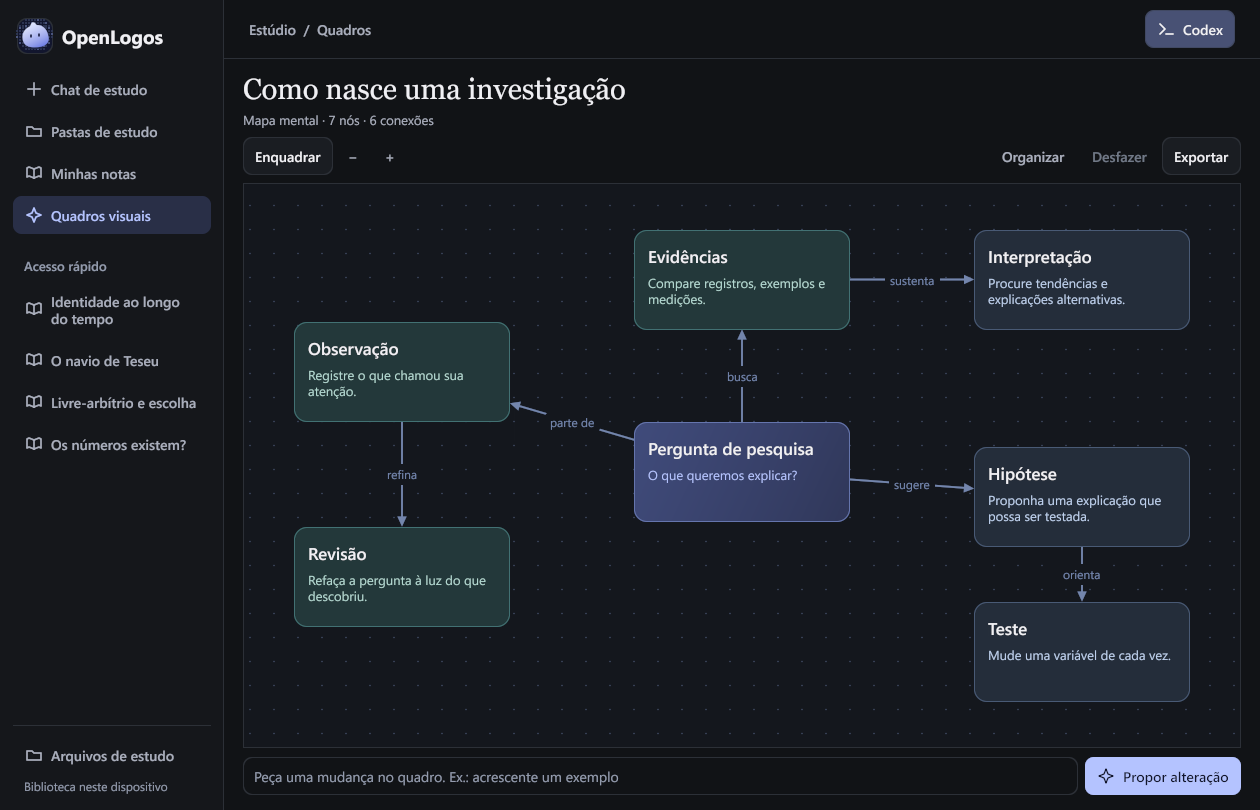
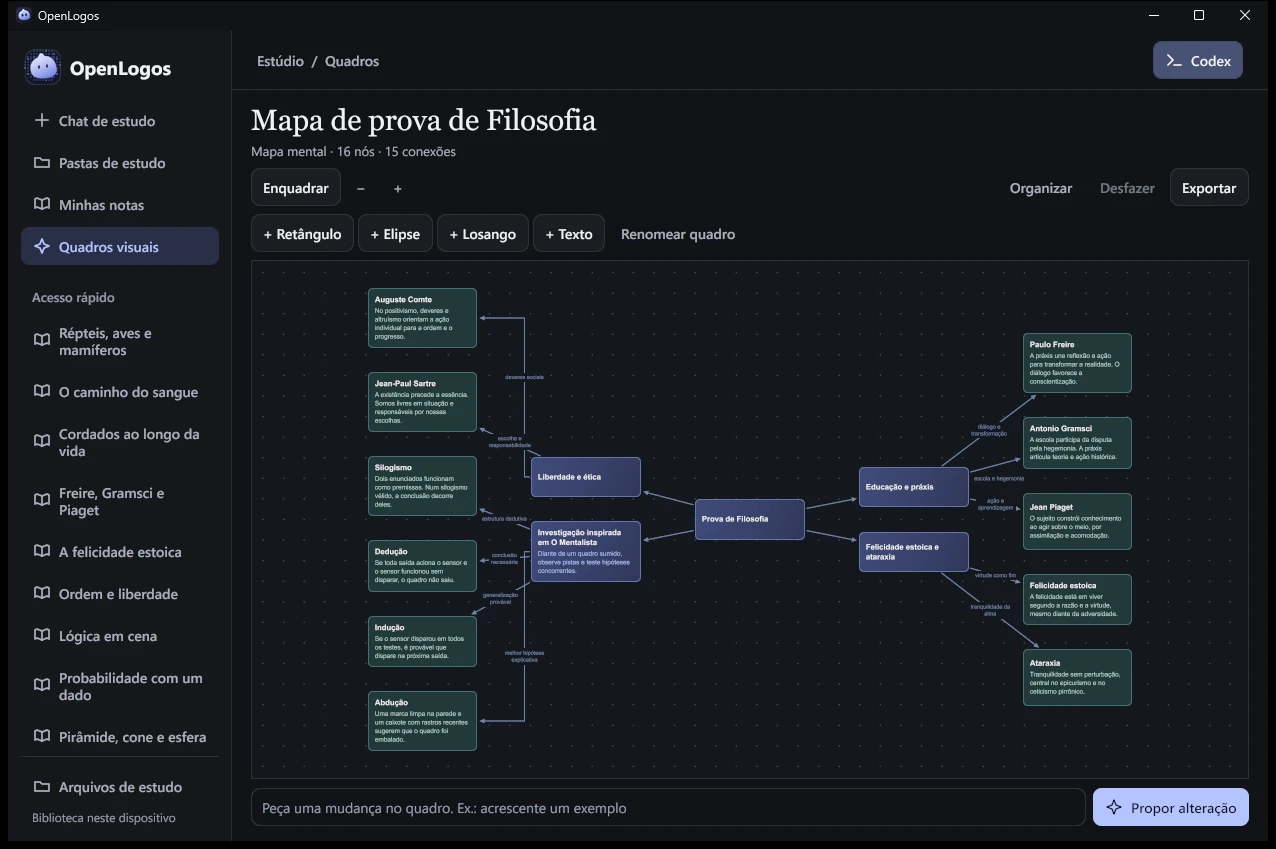
docs: prepare Windows release and record validation

diff --git a/README.md b/README.md
@@ -9,20 +9,34 @@
 </p>
 
 <p align="center">
-  <strong>Windows 11</strong> · Go + Gio · Codex e Claude Code
+  <strong><a href="https://github.com/galvaogg/OpenLogos/releases/latest/download/OpenLogos.exe">Baixar para Windows 11 x64</a></strong> · <a href="https://github.com/galvaogg/OpenLogos/releases">Versões</a>
 </p>
 
 <p align="center">
-  <img src="docs/media/quadro.webp" alt="Quadro visual do OpenLogos com sete nós conectados sobre uma investigação, controles de zoom e campo de pedidos ao agente" width="1100">
+  <img src="docs/media/quadro.webp" alt="Quadro de estudo no OpenLogos com nós conectados, ferramentas para adicionar formas e controles de zoom" width="1100">
 </p>
+
+## Começar
+
+Baixe e abra `OpenLogos.exe` no Windows 11 x64. O aplicativo é portátil. As lições de exemplo, a edição manual e a exportação funcionam offline.
+
+Para gerar lições e quadros, instale um dos CLIs, faça login no terminal e escolha o agente no canto superior direito do app.
+
+| Agente | Login |
+| --- | --- |
+| [Codex](https://developers.openai.com/codex/cli) | `codex login` com conta ChatGPT |
+| [Claude Code](https://code.claude.com/docs/en/setup) | `claude auth login` com assinatura Claude |
+
+O app usa a sessão existente do CLI e consome a cota da assinatura. Quando você solicita uma geração, o agente recebe o pedido, os anexos visíveis e o quadro em revisão. Quadros, notas, pastas, preferências e progresso ficam em `%APPDATA%\OpenLogos\library.json`.
 
 ## Quadros visuais
 
-Abra **Quadros visuais** e escolha **Mapa mental**, **Fluxograma** ou **Linha do tempo**. Escreva um pedido ou use **Criar exemplo offline** para conhecer o quadro.
+Abra **Quadros visuais** e escolha **Mapa mental**, **Fluxograma** ou **Linha do tempo**. Comece com **Novo quadro em branco**, descreva o quadro que a IA deve gerar ou use **Criar exemplo offline**.
 
-- Arraste os nós, mova a área do quadro e use o zoom. Selecione um nó para editar o título e o detalhe.
-- Peça uma mudança ao agente, como “Inclua um exemplo concreto abaixo de Hipótese”. Revise a proposta no quadro e escolha **Aplicar proposta** ou **Descartar**. **Desfazer** recupera a versão anterior à última alteração aplicada, edição de texto ou reorganização.
-- Use **Exportar** para salvar em `Documentos\OpenLogos\Estudos`. O arquivo `.excalidraw` abre no Excalidraw com formas, textos e conexões editáveis. [Formato de cena do Excalidraw](https://plus.excalidraw.com/docs/sdk/codebase/json-schema)
+- Adicione retângulos, elipses, losangos e textos avulsos. Arraste para posicionar e selecione para editar. Para criar uma seta, selecione o nó de origem, clique em **Conectar** e escolha o destino. Use **Conexões** para editar os rótulos e remover setas.
+- Use **Enquadrar** para ver o mapa, **Focar nó** para ler um elemento selecionado e **Desfazer** para voltar uma edição. O app salva o quadro ao concluir cada alteração e permite reabri-lo em **Quadros visuais**.
+- Peça uma mudança ao agente, como “Inclua um exemplo concreto abaixo de Hipótese”. Revise e escolha **Aplicar proposta** ou **Descartar**.
+- Use **Exportar** para salvar em `Documentos\OpenLogos\Estudos`. Abra o arquivo `.excalidraw` no Excalidraw para editar formas, textos e setas. [Formato de cena do Excalidraw](https://plus.excalidraw.com/docs/sdk/codebase/json-schema)
 
 ## Estudo e revisão
 
@@ -45,19 +59,22 @@ Digite `/` para ver o menu ou envie um pedido direto.
 | `/aprofundar` | `/aprofundar por que azul e vermelho aparecem no céu` |
 | `/praticar` | `/praticar frações equivalentes` |
 | `/revisar` | `/revisar leis de Newton` |
+| `/questoes` | `/questoes questões do ENEM sobre probabilidade` |
 
-## Rodar no Windows
+### Buscar questões no Google
 
-Abra `dist\OpenLogos.exe` após compilar. Para gerar com IA, instale um dos CLIs, faça login no terminal e escolha o agente no canto superior direito do app.
+Configure o Google Agent Search para acervos públicos e use `/questoes` ou um pedido como “Busque questões de probabilidade do ENEM”. O app mostra a origem de cada exercício e inclui links confirmados no Markdown exportado. [Configurar a busca Google](docs/busca-google.md)
 
-| Agente | Login |
+**Arquivos de estudo** abre os arquivos Markdown de `Documentos\OpenLogos\Estudos`. Selecione um arquivo para anexá-lo ao chat. **Exportar Markdown**, no leitor, salva leitura, dicas, gabarito e referências. Cada exportação gera uma cópia.
+
+## Plataformas
+
+| Plataforma | Disponibilidade |
 | --- | --- |
-| [Codex](https://developers.openai.com/codex/cli) | `codex login` com conta ChatGPT |
-| [Claude Code](https://code.claude.com/docs/en/setup) | `claude auth login` com assinatura Claude |
+| Windows 11 x64 | Executável portátil testado e disponível no GitHub Releases. |
+| macOS e Linux | A interface e a entrada do app são específicas do Windows. Os builds dependem de um port. |
 
-O app usa a sessão existente do CLI e consome a cota da assinatura. O pedido, os anexos visíveis e o quadro em revisão só são enviados ao agente ao solicitar geração. Quadros salvos, notas, pastas, preferências e progresso ficam em `%APPDATA%\OpenLogos\library.json`. Os exemplos, a edição do quadro e a exportação funcionam offline.
-
-### Compilar
+## Compilar no Windows
 
 Use Go 1.26.3 no Windows.
 
@@ -66,4 +83,4 @@ go test ./...
 go build -trimpath -ldflags '-H=windowsgui -s -w' -o dist/OpenLogos.exe .
 ```
 
-**Arquivos de estudo** abre os arquivos Markdown de `Documentos\OpenLogos\Estudos`. Selecione um arquivo para anexá-lo ao chat. **Exportar Markdown**, no leitor, salva leitura, dicas, gabarito e referências. Cada exportação gera uma cópia.
+[Medições e validação da v0.1.0](docs/validacao-v0.1.0.md)

diff --git a/docs/validacao-v0.1.0.md b/docs/validacao-v0.1.0.md
@@ -1,0 +1,49 @@
+# Validação do OpenLogos v0.1.0
+
+Validação em Windows 11 25H2 x64, build 26200, com Go 1.26.3 e Intel Core i5-11400H. Os testes usaram uma biblioteca descartável com conteúdo acadêmico.
+
+## Desempenho
+
+Mediana de cinco execuções de `BenchmarkGioFrame` com a mesma carga na base `45c1973` e na versão integrada. O teste mede CPU para layout e roteamento de eventos Gio a 1260 × 810. A carga inclui um quadro com 24 nós em movimento e uma biblioteca com 300 lições anotadas.
+
+| Cenário | Base | v0.1.0 | Alocações por frame |
+| --- | ---: | ---: | ---: |
+| Mover o quadro | 0,865 ms | 0,483 ms | 334 → 271 |
+| Minhas notas | 0,878 ms | 0,212 ms | 3.530 → 215 |
+| Ler um card | 0,323 ms | 0,253 ms | 366 → 367 |
+
+O quadro reutiliza o desenho da grade durante o deslocamento e recalcula a geometria quando muda o conteúdo. Minhas notas monta a lista uma vez ao entrar na página. A mediana caiu 44% no quadro e 76% em Minhas notas.
+
+```powershell
+go test -run '^$' -bench '^BenchmarkGioFrame$' -benchmem -benchtime 700ms -count 5
+```
+
+Use a mesma versão de `performance_windows_test.go` na base e na versão atual para repetir a comparação.
+
+## Quadros e exportação
+
+- O teste `TestManualBoardWorkflowThroughGio` cria um quadro em branco, edita título e formas, move um nó, conecta e edita a seta, desfaz alterações, reabre a biblioteca e exporta. O arquivo conserva as posições e usa elementos nativos do Excalidraw. [Quadro manual no Excalidraw](media/validacao-manual-excalidraw.webp)
+- Três quadros do Codex foram usados como regressão de texto longo. A geometria exportada tinha 22 blocos fora da caixa na base e zero após a correção, com margem interna de pelo menos 10 unidades para os casos da amostra. [Testes de layout](../board_layout_test.go)
+- O mapa de Filosofia foi inspecionado em janelas de 1260 × 810 e 750 × 580. Na janela menor, **Enquadrar** mostra a estrutura e **Focar nó** abre o texto completo em escala de leitura. [Antes](media/validacao-filosofia-antes.webp) · [Janela estreita](media/validacao-filosofia-compacto.webp) · [Nó em foco](media/validacao-filosofia-foco.webp)
+- Os três quadros de comparação e o manual abriram no editor Excalidraw. Foram conferidas formas, texto, setas e rótulos. [Biologia](media/validacao-biologia-excalidraw.webp) · [Filosofia](media/validacao-filosofia-excalidraw.webp) · [Matemática](media/validacao-matematica-excalidraw.webp)
+- O Codex voltou a gerar quadros para as três provas com 21, 16 e 16 nós, respectivamente. Um primeiro pedido de Filosofia produziu um nó inválido. A versão final faz uma segunda tentativa após falha de validação, com orientação sobre IDs, conexões e comprimento de texto. A repetição real passou. Uma revisão real do ciclo da água também preservou os IDs e acrescentou o nó solicitado.
+
+## Suíte de estudo
+
+Nove lições reais do Codex, 63 cards, 22 exercícios com gabarito explicado. As lições foram salvas e reabertas em três pastas no app. [Pastas da biblioteca de teste](media/validacao-pastas.webp)
+
+| Pasta | Lições | Exercícios | Conteúdo conferido |
+| --- | ---: | ---: | --- |
+| Biologia | 3 | 8 | Características dos cordados, peixes, anfíbios, répteis, aves, mamíferos, circulação e sangue humano. |
+| Filosofia | 4 | 9 | Educação e práxis em Freire, Gramsci e Piaget, liberdade e ética em Comte e Sartre, felicidade e ataraxia, silogismo e tipos de inferência em um caso de investigação. |
+| Matemática | 2 | 5 | Probabilidade, união, interseção, partes, áreas e volumes de pirâmide, cone e esfera. |
+
+No dado equilibrado da lição, os conjuntos A = {2, 4, 6} e B = {4, 5, 6} dão P(A ∪ B) = 4/6 e P(A ∩ B) = 2/6. A probabilidade condicional P(A | B) = 2/3 confirma a dependência. Os exemplos de geometria foram recalculados, incluindo o hemisfério de raio 4 cm, cuja área total é 48π cm². [Exercício no app](media/validacao-exercicio.webp) · [Probabilidade, OpenStax](https://openstax.org/books/introductory-statistics-2e/pages/3-introduction) · [Geometria, OpenStax](https://openstax.org/books/prealgebra-2e/pages/9-6-solve-geometry-applications-volume-and-surface-area)
+
+O percurso do sangue e as características evolutivas foram conferidos com os capítulos de referência. As distinções de Piaget, estoicismo, lógica e positivismo foram verificadas com as obras e referências indicadas. [Cordados, OpenStax](https://openstax.org/books/biology-2e/pages/29-chapter-summary) · [Circulação, OpenStax](https://openstax.org/books/biology-2e/pages/40-1-overview-of-the-circulatory-system) · [Fundação Jean Piaget](https://www.fondationjeanpiaget.ch/fjp/site/presentation/index.php?DOCID=1267) · [Discours sur l’esprit positif](https://fr.wikisource.org/wiki/Discours_sur_l%E2%80%99esprit_positif) · [Stoicism](https://plato.stanford.edu/entries/stoicism/) · [Abduction](https://plato.stanford.edu/entries/abduction/)
+
+## Busca Google e builds
+
+- O teste da busca cobriu a rota `searchLite`, configuração ausente, erros HTTP e origem por card no leitor e no Markdown. Com o Codex real e uma resposta HTTP de teste, o agente formulou a consulta de probabilidade e usou o trecho como fonte de uma questão adaptada. O teste contra a API real depende de um Google Agent Search configurado, com projeto, app e chave. [Configuração e teste ao vivo](busca-google.md)
+- O Windows x64 passou em `go test ./... -count=1`, `go test -race ./... -count=1`, `go vet ./...` e no teste de abertura do executável.
+- Os builds de macOS e Linux ficaram pendentes. Os testes de compilação cruzada falharam porque o ponto de entrada e a interface foram escritos para Windows.
